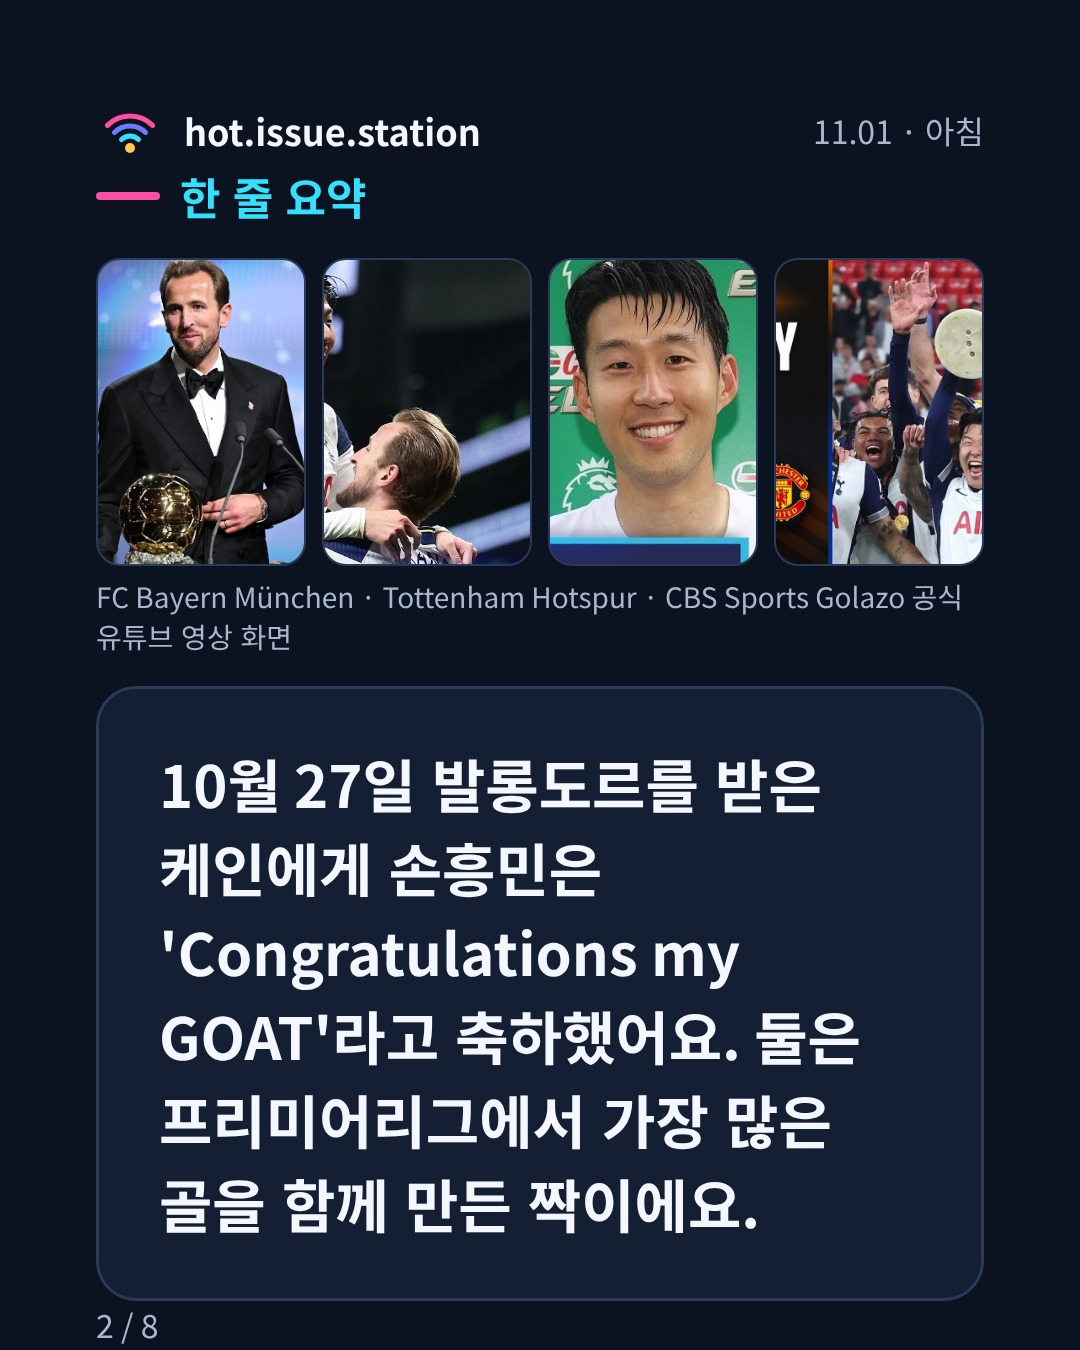
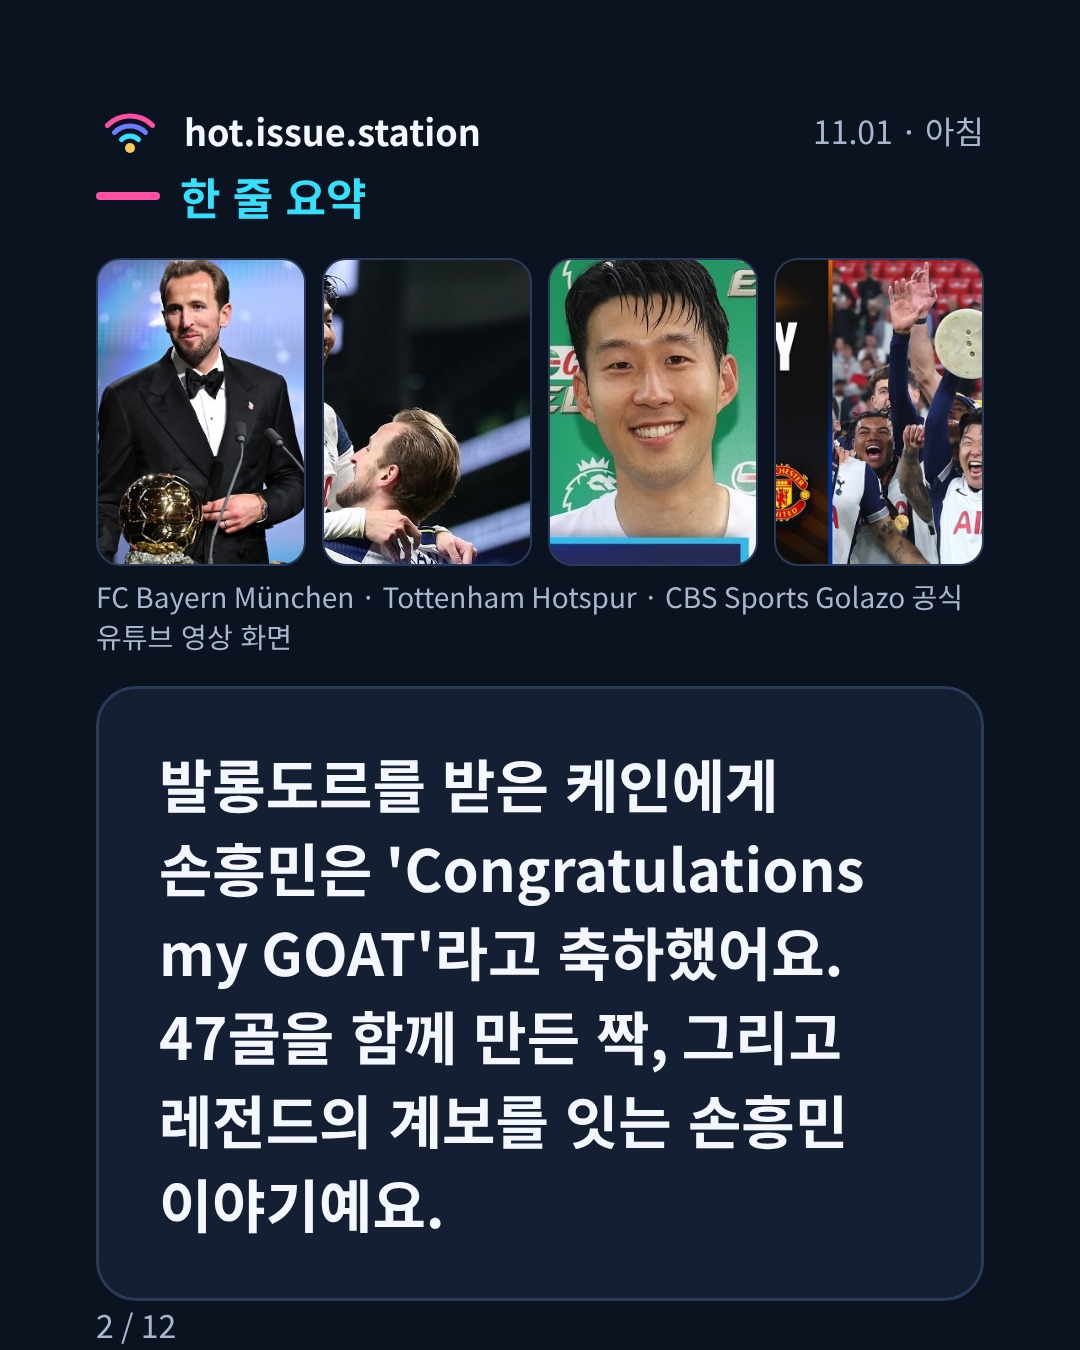
손흥민 레전드 특집 #1 1분판 카드 12장(확정 대기), 카드 최대 12장·릴스 길이 설정
Claude-Session: https://claude.ai/code/session_017sdLagfdwDnGFusHKe7jDQ

Changed region(s): [[0.1528, 0.56, 0.7944, 0.9333], [0.1222, 0.9644, 0.1528, 0.9956]]

diff --git a/scripts/make_post.py b/scripts/make_post.py
@@ -248,7 +248,7 @@ def cards(r):
     label = f"{m}.{d} · {SLOTS[r['slot']][0]}"
     out = []
     global CUR_TOTAL
-    NF = max(1, min(len(r["facts"]), 4))   # 사실 카드 1~4장 → 전체 5~8장 (10/31: 30초 릴스 가독성에 맞춰 장수 유연)
+    NF = max(1, min(len(r["facts"]), 8))   # 사실 카드 1~8장 → 전체 5~12장 (10/31: 30초=8장 안팎, 특집 1분=12장 안팎)
     TOT = NF + 4
     CUR_TOTAL = TOT
     # 1 훅 — "big"이 있으면 C안(숫자 강조), 없으면 기본형
@@ -307,9 +307,9 @@ def cards(r):
 <div style="font-size:46px;font-weight:500;line-height:1.55;color:{ONACC2}">{E(r['interpSub'])}</div></div>""",
                      label, NF + 3, light=True, deco=rings([ONACC] * 3, [640, 440, 240]), total=TOT))
     # 7 출처
-    nums = "①②③④"
+    nums = "①②③④⑤⑥"
     src = "".join(f'<div style="padding:22px 0;border-bottom:2px solid {LINE};font-size:36px;line-height:1.4;color:{BODY}">'
-                  f'{nums[k]} {E(s["outlet"])} · {E(s["title"])} · {E(s["date"])}</div>' for k, s in enumerate(r["sources"][:4]))
+                  f'{nums[k]} {E(s["outlet"])} · {E(s["title"])} · {E(s["date"])}</div>' for k, s in enumerate(r["sources"][:6 if NF > 4 else 4]))
     out.append(frame(f"""<div style="flex:1;display:flex;flex-direction:column;justify-content:center;gap:36px">
 <div style="display:flex;align-items:center;gap:20px"><div style="width:64px;height:8px;border-radius:4px;background:{PINK}"></div><div style="font-size:44px;font-weight:700;color:{CYAN}">출처</div></div>
 <div style="display:flex;flex-direction:column">{src}</div>
@@ -343,7 +343,7 @@ def cards_read(r):
 <div style="font-size:64px;font-weight:900;line-height:1.35">{E(sec["title"])}</div>
 <div style="width:120px;height:8px;border-radius:4px;background:{CYAN}"></div>
 <div style="font-size:44px;line-height:1.8;color:{BODY}">{E(sec["body"])}</div></div>""", label, 3 + i, total=total))
-    nums = "①②③④"
+    nums = "①②③④⑤⑥"
     src = "".join(f'<div style="padding:20px 0;border-bottom:2px solid {LINE};font-size:34px;line-height:1.4;color:{BODY}">'
                   f'{nums[k]} {E(s_["outlet"])} · {E(s_["title"])} · {E(s_["date"])}</div>' for k, s_ in enumerate(r["sources"][:4]))
     out.append(frame(f"""<div style="flex:1;display:flex;flex-direction:column;justify-content:center;gap:36px">

diff --git a/scripts/make_reel_motion.py b/scripts/make_reel_motion.py
@@ -105,7 +105,8 @@ def main():
         b = p.chromium.launch()
         pg = b.new_page(viewport={"width": W, "height": H})
         N = len(pages)
-        DURS = DUR if N == 7 else [round(30.0 / N + XF * (N - 1) / N, 2)] * N   # 장수가 바뀌어도 약 30초
+        SEC = float(r.get("reelSeconds", 30))   # 특집은 round JSON 에 "reelSeconds": 60
+        DURS = DUR if (N == 7 and SEC == 30) else [round(SEC / N + XF * (N - 1) / N, 2)] * N
         for i, html in enumerate(pages):
             dur = DURS[i]
             html = html.replace("</style>", ANIM_CSS + "</style>", 1)
